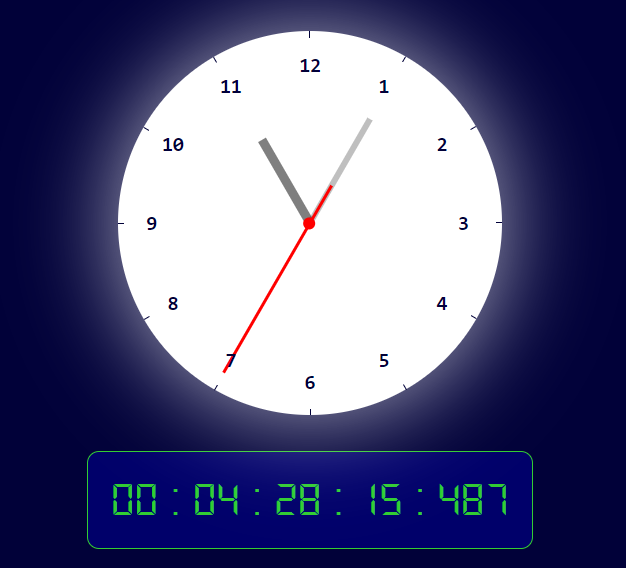
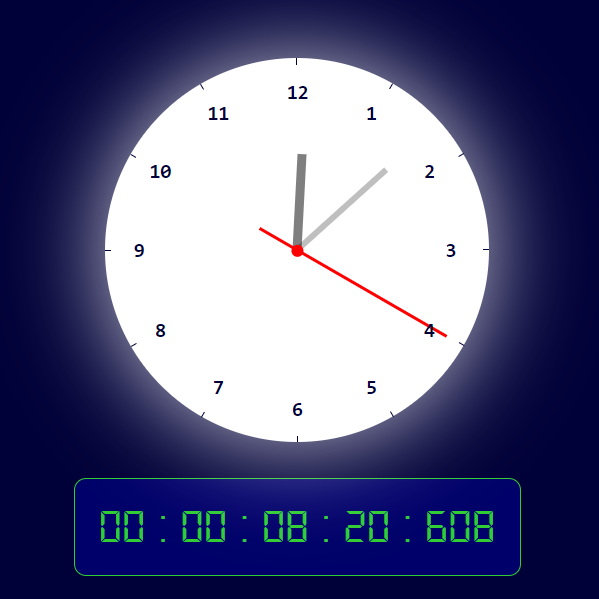
Minor fixed

diff --git a/style.css b/style.css
@@ -31,7 +31,7 @@ body {
 	flex-direction: column;
 	gap: 1rem;
 	margin: 0 auto;
-	padding-bottom: 2rem;
+	/* padding-bottom: 2rem; */
 }
 
 .project-title {
@@ -50,7 +50,7 @@ body {
 	position: relative;
 	font-family: monospace;
 	font-weight: bold;
-	box-shadow: 0 0 64px hsla(0, 0%, 100%, 0.7);
+	box-shadow: 0 0 64px hsla(0, 0%, 100%, 0.8);
 }
 
 .clock-hour {

diff --git a/script.js b/script.js
@@ -840,7 +840,7 @@ class StopwatchController {
 				// update analog clock handles
 				this.stopWatchAnalogUI.updateHandlesAngles(
 					formattedTimeValues,
-					elapsedTimeDurationInMS
+					this.stopWatch.elapsedTimeDuration
 				);
 
 				// feedback message

diff --git a/index.html b/index.html
@@ -23,7 +23,7 @@
 			rel="icon"
 			type="image/png"
 			sizes="32x32"
-			href="./design/screenshot.png" />
+			href="./design/screenshot.png?v=2" />
 		<link rel="stylesheet" href="style.css" />
 	</head>
 	<body>
